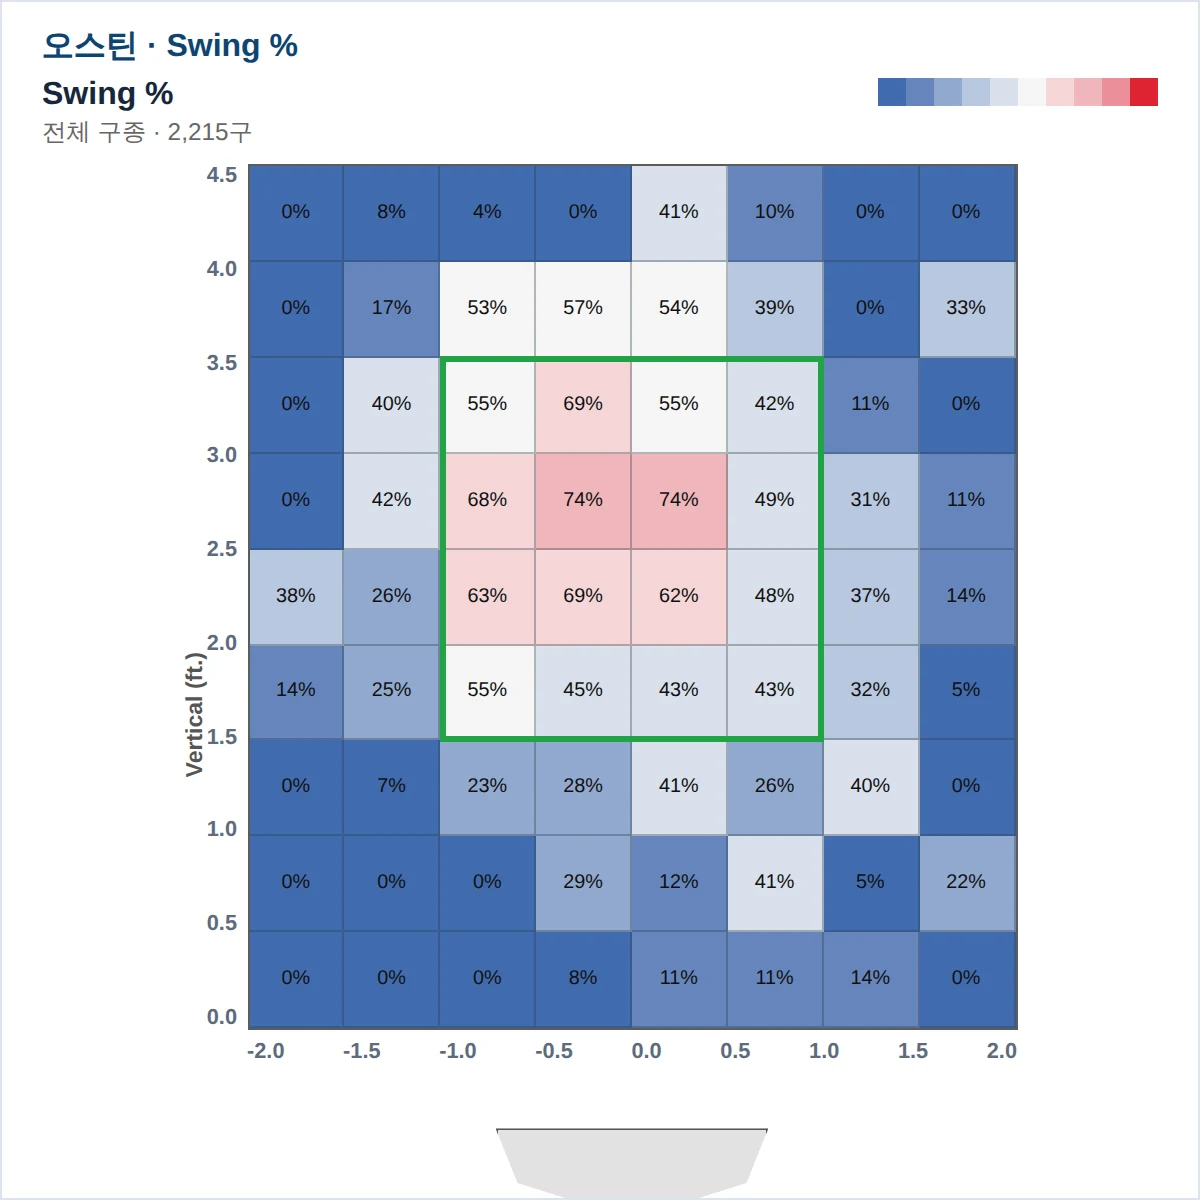
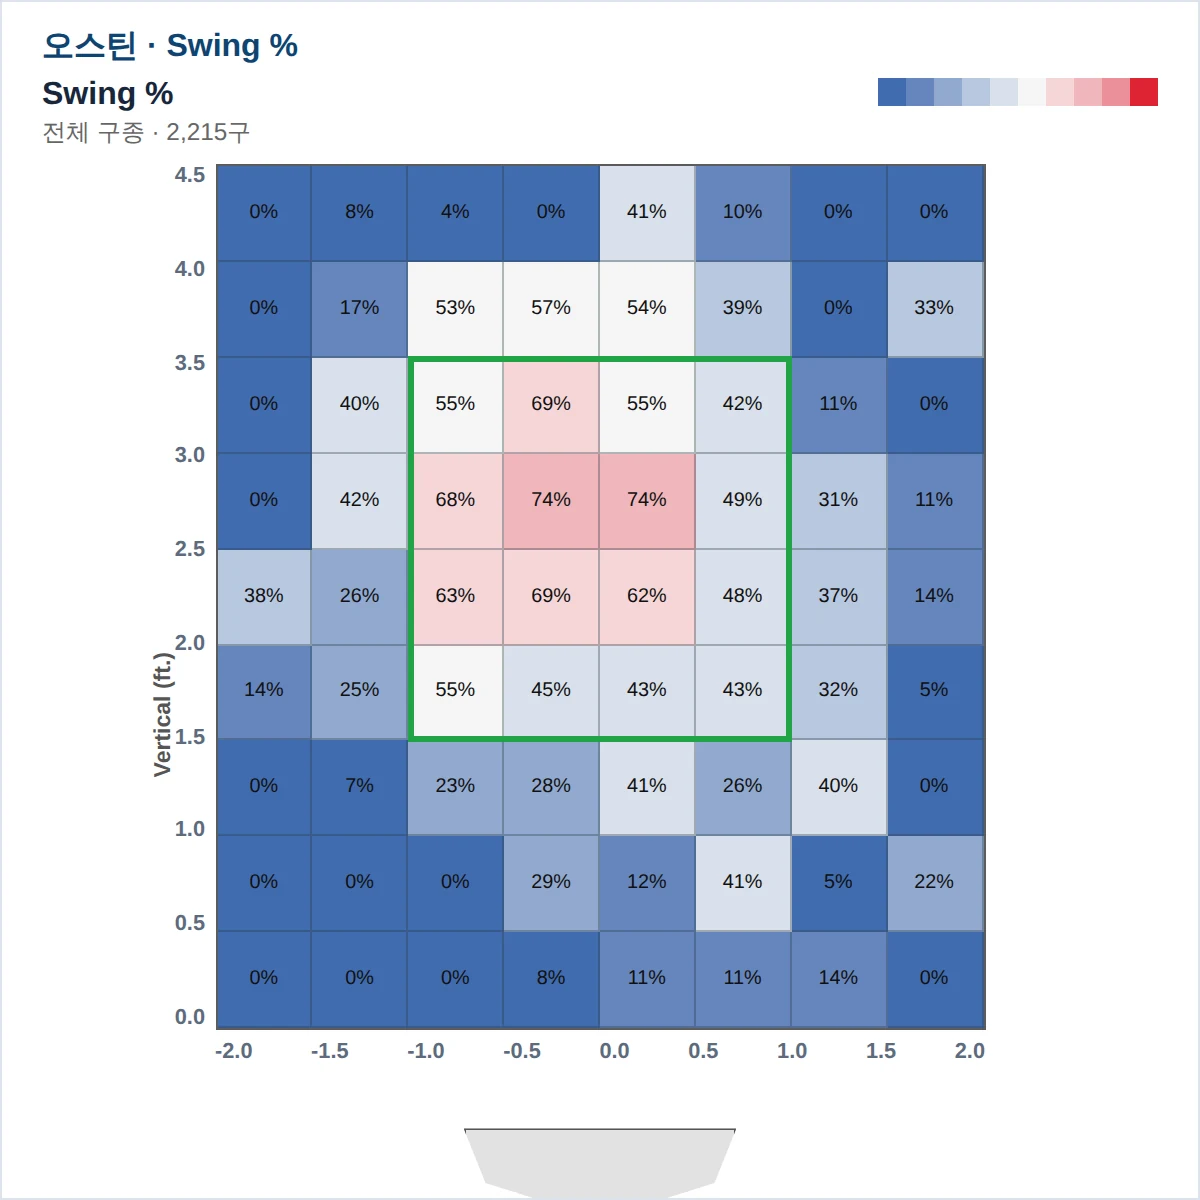
웹: Zone Profile 썸네일 격자 가운데 정렬, 안내문구를 Blocking 카드로 통일
- Zone Profile 썸네일: 왼쪽 세로 라벨 열과 같은 폭의 빈 열을 오른쪽에 두어 격자 좌우 여백을 같게 함(107.5px), 썸네일 재생성
- 안내문구: Blocking의 "What is this?" 카드(.method-card)를 theme.css 공통 규칙으로 옮기고 Zone Profile·Swing/Take 프로필의 회색 설명줄을 카드로 바꿈
- Blocking 화면은 규칙 이동 전후 픽셀 동일
- 결정 기록 0012와 conventions 갱신, 바뀐 CSS 캐시 버스터 올림

Claude-Session: https://claude.ai/code/session_01BhtV85zuJRrgZ2n567YeEY

diff --git a/web/zones/zone.css b/web/zones/zone.css
@@ -51,7 +51,6 @@ h2 { margin: 0; font-size: clamp(2rem, 4vw, 3.2rem); letter-spacing: -.045em; }
 table { width: 100%; border-collapse: collapse; font-size: .78rem; }
 th, td { padding: 9px 7px; border-bottom: 1px solid #e4e4e4; text-align: right; white-space: nowrap; }
 th:first-child, td:first-child { text-align: left; }
-.method { margin: 15px 0 0; color: #6a6a6a; font-size: .78rem; line-height: 1.5; }
 @media (max-width: 850px) { .dashboard { grid-template-columns: 1fr; } .summary { grid-template-columns: repeat(3, 1fr); } }
 @media (max-width: 560px) {
   main { padding: 22px 12px 42px; }
@@ -76,7 +75,7 @@ html.thumbnail-mode .profile-title,
 html.thumbnail-mode .filters,
 html.thumbnail-mode .summary,
 html.thumbnail-mode .table-card,
-html.thumbnail-mode .method { display:none; }
+html.thumbnail-mode .method-card { display:none; }
 html.thumbnail-mode body { background:#f4f4f2; }
 html.thumbnail-mode main { width:600px; max-width:none; padding:0; }
 html.thumbnail-mode .profile { margin:0; }
@@ -84,5 +83,6 @@ html.thumbnail-mode .dashboard { display:block; }
 html.thumbnail-mode [data-thumbnail-target] { display:flex; width:600px; height:600px; padding:12px 20px; flex-direction:column; overflow:hidden; }
 html.thumbnail-mode .thumbnail-context { display:block; margin:0 0 5px; color:#0f4471; font-size:1rem; font-weight:700; }
 html.thumbnail-mode .chart-heading { margin-bottom:7px; }
-html.thumbnail-mode .savant-plot { flex:1; grid-template-columns:14px minmax(0, 385px); gap:18px; align-items:center; }
+/* 오른쪽에 왼쪽 세로 라벨과 같은 폭의 빈 열을 두어 격자를 카드 가운데에 놓습니다(좌우 대칭). */
+html.thumbnail-mode .savant-plot { flex:1; grid-template-columns:14px minmax(0, 385px) 14px; gap:18px; align-items:center; }
 html.thumbnail-mode .plot-column { width:385px; }

diff --git a/web/swing-take/index.html b/web/swing-take/index.html
@@ -1,2 +1,2 @@
-<!doctype html><html lang="ko"><head><meta charset="utf-8"><meta name="viewport" content="width=device-width, initial-scale=1"><title>KBO Swing/Take Profiles</title><link rel="stylesheet" href="../styles.css?v=20261005-1"><link rel="stylesheet" href="../theme.css?v=20261005-1"><script>if (new URLSearchParams(location.search).get("thumb") === "1") location.replace(new URL("../profiles/" + location.search, location.href));</script></head><body>
+<!doctype html><html lang="ko"><head><meta charset="utf-8"><meta name="viewport" content="width=device-width, initial-scale=1"><title>KBO Swing/Take Profiles</title><link rel="stylesheet" href="../styles.css?v=20261005-1"><link rel="stylesheet" href="../theme.css?v=20261005-2"><script>if (new URLSearchParams(location.search).get("thumb") === "1") location.replace(new URL("../profiles/" + location.search, location.href));</script></head><body>
   <script src="../site-header.js?v=20261002-1"></script><main class="profile-index site-main"><header class="index-header page-title"><p class="eyebrow">RUN VALUE</p><h1>Swing/Take Profiles</h1><p>KBO 타자별 Swing/Take Run Value 프로필</p></header><section aria-labelledby="players-title"><div class="search-heading"><h2 id="players-title">Batter Search</h2><label class="search-picker">연도<select id="season-select"></select></label></div><form id="player-search" class="player-search" role="search"><label for="player-query">선수 이름</label><input id="player-query" type="search" autocomplete="off" placeholder="예: 홍창기"><button type="submit">프로필 보기</button></form><p id="search-message" class="search-message" aria-live="polite"></p></section></main><script src="swing-take.js?v=20260922-1"></script></body></html>

diff --git a/web/zones/index.html b/web/zones/index.html
@@ -4,8 +4,8 @@
   <meta charset="utf-8">
   <meta name="viewport" content="width=device-width, initial-scale=1">
   <title>KBO Zone Profile</title>
-  <link rel="stylesheet" href="zone.css?v=20261005-1">
-  <link rel="stylesheet" href="../theme.css?v=20261005-1">
+  <link rel="stylesheet" href="zone.css?v=20261005-2">
+  <link rel="stylesheet" href="../theme.css?v=20261005-2">
   <script>if (new URLSearchParams(location.search).get("thumb") === "1") document.documentElement.classList.add("thumbnail-mode");</script>
 </head>
 <body>
@@ -70,7 +70,7 @@
           <div class="table-wrap"><table><thead><tr><th>구종</th><th>구사율</th><th>평균 구속</th><th>Swing%</th><th>Whiff%</th><th>AVG</th><th>Zone%</th></tr></thead><tbody id="pitch-table"></tbody></table></div>
         </section>
       </div>
-      <p class="method">Swing% = swings / (swings + takes) · Whiff% = whiffs / swings · 0.5 ft × 0.5 ft 셀<br>색은 선택 지표의 비율을 나타냅니다. 파란색은 낮고 빨간색은 높습니다. 빈 셀은 선택한 최소 표본에 미달합니다.</p>
+      <section class="method-card"><h2>What is this?</h2><p>Swing% = swings / (swings + takes) · Whiff% = whiffs / swings · 0.5 ft × 0.5 ft 셀</p><p>색은 선택 지표의 비율을 나타냅니다. 파란색은 낮고 빨간색은 높습니다. 빈 셀은 선택한 최소 표본에 미달합니다.</p></section>
     </section>
   </main>
   <script src="zone.js?v=20261005-1"></script>

diff --git a/web/profiles/index.html b/web/profiles/index.html
@@ -4,8 +4,8 @@
   <meta charset="utf-8">
   <meta name="viewport" content="width=device-width, initial-scale=1">
   <title>KBO Swing/Take 프로필</title>
-  <link rel="stylesheet" href="profile.css?v=20261005-1">
-  <link rel="stylesheet" href="../theme.css?v=20261005-1">
+  <link rel="stylesheet" href="profile.css?v=20261005-2">
+  <link rel="stylesheet" href="../theme.css?v=20261005-2">
   <script>if (new URLSearchParams(location.search).get("thumb") === "1") document.documentElement.classList.add("thumbnail-mode");</script>
 </head>
 <body>
@@ -75,7 +75,7 @@
       </div>
       <div id="comparison-results" class="comparison-results" aria-live="polite"></div>
     </section>
-    <p class="method-note">Run Value = Σ[Raw Run Value − 리그 평균 Run Value(볼카운트, 상대 위치)] · 양수일수록 타자에게 유리합니다.</p>
+    <section class="method-card"><h2>What is this?</h2><p>Run Value = Σ[Raw Run Value − 리그 평균 Run Value(볼카운트, 상대 위치)] · 양수일수록 타자에게 유리합니다.</p></section>
   </main>
   <script src="https://cdn.jsdelivr.net/npm/html2canvas@1.4.1/dist/html2canvas.min.js"></script>
   <script src="profile.js?v=20261003-1"></script>

diff --git a/web/blocking/blocking.css b/web/blocking/blocking.css
@@ -36,8 +36,7 @@ td.baa { min-width: 82px; font-size: 1rem; font-weight: 800; background: var(--b
 .legend { position: absolute; bottom: 16px; right: 16px; display: flex; align-items: center; gap: 5px; padding: 10px 12px; border-radius: 6px; background: rgba(28,31,29,.92); color: #fff; font-size: .75rem; }
 .legend i { width: 24px; height: 18px; border: 1px solid #fff; }.l1{background:#174f83}.l2{background:#74b5d2}.l3{background:#e7e5dd}.l4{background:#e78268}.l5{background:#8a001d}
 .map-controls { justify-content: flex-end; padding: 12px; border: 1px solid #d3d6d8; background: #fff; }
-.method-card { margin-top: 28px; padding: 22px; border-left: 5px solid #328b93; background: #fff; }
-.method-card h2 { margin: 0 0 9px; font-size: 1.1rem; }.method-card p { max-width: 980px; margin: 7px 0; color: #515960; line-height: 1.55; }.status { color: #9b2d38; }
+.status { color: #9b2d38; }
 @media (max-width: 800px) {
   main { padding: 24px 12px 48px; }.page-header { align-items: flex-start; flex-direction: column; }
   .field-card { min-height: 820px; } #blocking-map { width: 100%; height: 610px; margin-top: 200px; }

diff --git a/web/index.html b/web/index.html
@@ -6,7 +6,7 @@
   <meta name="description" content="KBO 데이터 시각화와 리더보드">
   <title>KBO Savant</title>
   <link rel="stylesheet" href="home.css?v=20261002-2">
-  <link rel="stylesheet" href="theme.css?v=20261005-1">
+  <link rel="stylesheet" href="theme.css?v=20261005-2">
 </head>
 <body>
   <script src="site-header.js?v=20261002-1"></script>
@@ -19,7 +19,7 @@
           <div class="visual-card__body"><h3>Leaderboards</h3><p>시즌별 타격·투구·수비 지표 검색과 정렬</p><b>열기 →</b></div>
         </a>
         <a class="visual-card" href="zones/">
-          <div class="visual-art" aria-hidden="true"><img src="assets/thumbnails/zone-profile.webp?v=20261004-1" alt=""></div>
+          <div class="visual-art" aria-hidden="true"><img src="assets/thumbnails/zone-profile.webp?v=20261005-1" alt=""></div>
           <div class="visual-card__body"><h3>Zone Profile</h3><p>타자·투수별 Swing·Whiff·Contact·In-play zone profile</p><b>열기 →</b></div>
         </a>
         <a class="visual-card" href="swing-take/">

diff --git a/web/movement-zones/index.html b/web/movement-zones/index.html
@@ -4,7 +4,7 @@
   <meta charset="utf-8">
   <meta name="viewport" content="width=device-width, initial-scale=1">
   <title>KBO Arm Angle Movement Zones</title>
-  <link rel="stylesheet" href="../theme.css?v=20261005-1">
+  <link rel="stylesheet" href="../theme.css?v=20261005-2">
   <link rel="stylesheet" href="movement-zones.css?v=20261003-1">
   <script>if (new URLSearchParams(location.search).get("thumb") === "1") document.documentElement.classList.add("thumbnail-mode");</script>
   <style>html.thumbnail-mode .site-header,html.thumbnail-mode main>nav,html.thumbnail-mode main>header,html.thumbnail-mode .controls,html.thumbnail-mode .side-panel{display:none}html.thumbnail-mode main{width:600px;margin:0;padding:0}html.thumbnail-mode .workspace{display:block}html.thumbnail-mode [data-thumbnail-target]{display:flex;width:600px;height:600px;padding:12px;flex-direction:column;overflow:hidden}html.thumbnail-mode [data-thumbnail-target] .chart-heading{padding:2px 4px 5px}html.thumbnail-mode #movement-chart{flex:1;min-height:0;width:100%;height:auto}</style>

diff --git a/web/zone-awareness/index.html b/web/zone-awareness/index.html
@@ -6,7 +6,7 @@
   <meta name="description" content="KBO 타자의 Swing·Take 판단 가치(APR)와 존 판단(ZA)">
   <title>Approach | KBO Savant</title>
   <link rel="stylesheet" href="zone-awareness.css?v=20261003-4">
-  <link rel="stylesheet" href="../theme.css?v=20261005-1">
+  <link rel="stylesheet" href="../theme.css?v=20261005-2">
   <script>if (new URLSearchParams(location.search).get("thumb") === "1") document.documentElement.classList.add("thumbnail-mode");</script>
   <style>html.thumbnail-mode .site-header,html.thumbnail-mode main>nav,html.thumbnail-mode .hero,html.thumbnail-mode .leaderboard-card,html.thumbnail-mode .player,html.thumbnail-mode .method{display:none}html.thumbnail-mode main{width:600px;margin:0;padding:0}html.thumbnail-mode .overview{display:block}html.thumbnail-mode [data-thumbnail-target]{width:600px;height:600px;overflow:hidden}html.thumbnail-mode .scatter-card .card-head{padding:16px 18px 10px}html.thumbnail-mode .scatter-card canvas{height:510px;aspect-ratio:auto}</style>
 </head>

diff --git a/web/profiles/profile.css b/web/profiles/profile.css
@@ -124,7 +124,6 @@ h2 { margin: 0; font: 400 1.32rem/1.1 Arial, sans-serif; }
 .run-total .swing { color: #6f8e71; }
 .run-total .take { color: #967537; }
 .run-total strong { font-weight: 700; font-size: 1.15em; }
-.method-note { margin: 16px 0 0; color: #6b6b6b; font-size: .82rem; line-height: 1.55; }
 @media (max-width: 830px) {
   .profile-dashboard { grid-template-columns: 1fr; gap: 30px; }
   .region-columns, .region-row { grid-template-columns: 100px minmax(100px, 1fr) minmax(175px, 1.35fr); }
@@ -248,7 +247,7 @@ html.profile-imaged .profile-image { display: block; }
 html.thumbnail-mode .site-header,
 html.thumbnail-mode .swing-take-search,
 html.thumbnail-mode .comparison-card,
-html.thumbnail-mode .method-note { display:none; }
+html.thumbnail-mode .method-card { display:none; }
 html.thumbnail-mode body { background:#f4f4f2; }
 html.thumbnail-mode main { width:600px; max-width:none; padding:0; }
 html.thumbnail-mode [data-thumbnail-target] { width:600px; height:600px; padding:20px; overflow:hidden; }

diff --git a/web/theme.css b/web/theme.css
@@ -250,3 +250,9 @@ table td { border-color: var(--kbo-line); }
 @media (max-width: 580px) {
   .player-search { grid-template-columns: 1fr; gap: 7px; }
 }
+
+/* 안내문구 카드 (Blocking 형식, "What is this?"). Blocking · Zone Profile · Swing/Take 공통.
+   도구 CSS의 h2 태그 규칙이 새어 들지 않도록 글꼴·색을 모두 적습니다. */
+.method-card { margin-top: 28px; padding: 22px; border-left: 5px solid var(--kbo-line); background: #fff; color: #17263a; font: 400 1rem Arial, sans-serif; text-align: left; }
+.method-card h2 { margin: 0 0 9px; color: #17263a; font: 700 1.1rem Arial, sans-serif; letter-spacing: normal; text-transform: none; }
+.method-card p { max-width: 980px; margin: 7px 0; color: #515960; font-size: 1rem; line-height: 1.55; }

diff --git a/web/leaderboards/index.html b/web/leaderboards/index.html
@@ -6,7 +6,7 @@
   <meta name="description" content="KBO 타격·투구·수비 지표 리더보드">
   <title>KBO Savant Leaderboards</title>
   <link rel="stylesheet" href="leaderboards.css?v=20261003-1">
-  <link rel="stylesheet" href="../theme.css?v=20261005-1">
+  <link rel="stylesheet" href="../theme.css?v=20261005-2">
   <script>if (new URLSearchParams(location.search).get("thumb") === "1") document.documentElement.classList.add("thumbnail-mode");</script>
 </head>
 <body>

diff --git a/web/blocking/index.html b/web/blocking/index.html
@@ -4,8 +4,8 @@
   <meta charset="utf-8">
   <meta name="viewport" content="width=device-width, initial-scale=1">
   <title>KBO Catcher Blocking</title>
-  <link rel="stylesheet" href="blocking.css?v=20261003-1">
-  <link rel="stylesheet" href="../theme.css?v=20261005-1">
+  <link rel="stylesheet" href="blocking.css?v=20261005-1">
+  <link rel="stylesheet" href="../theme.css?v=20261005-2">
 </head>
 <body>
   <script src="../site-header.js?v=20261002-1"></script>
